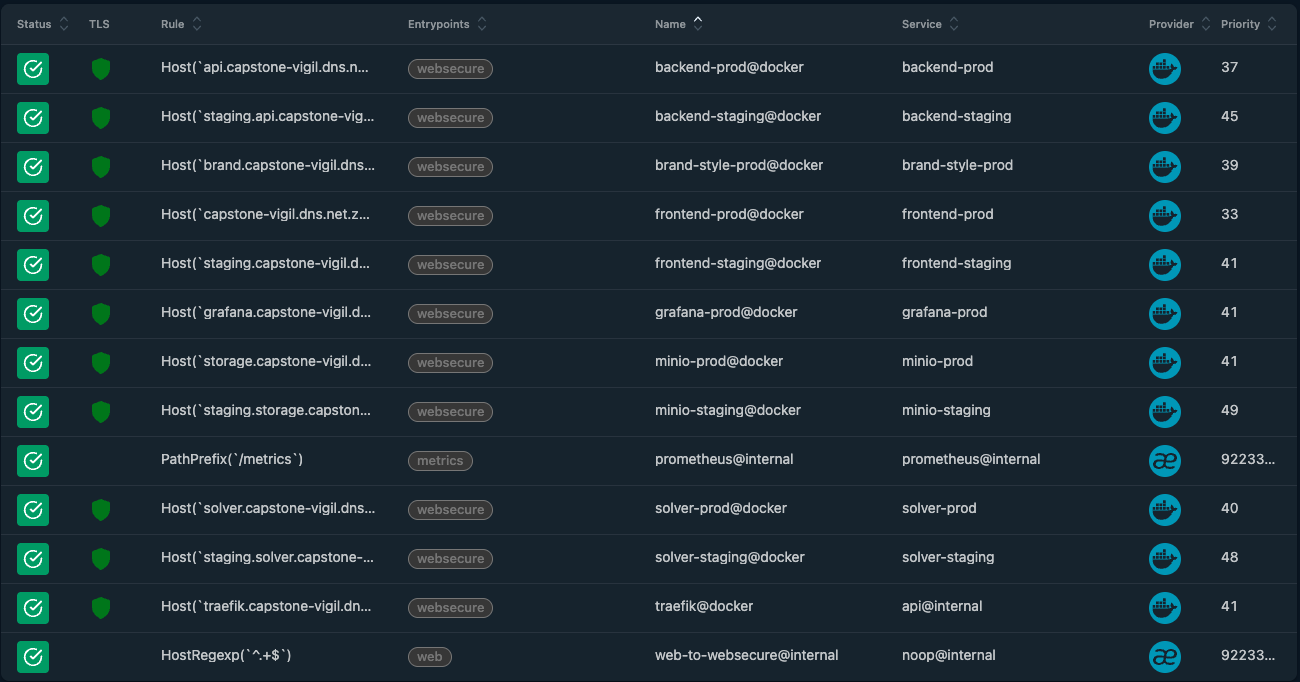
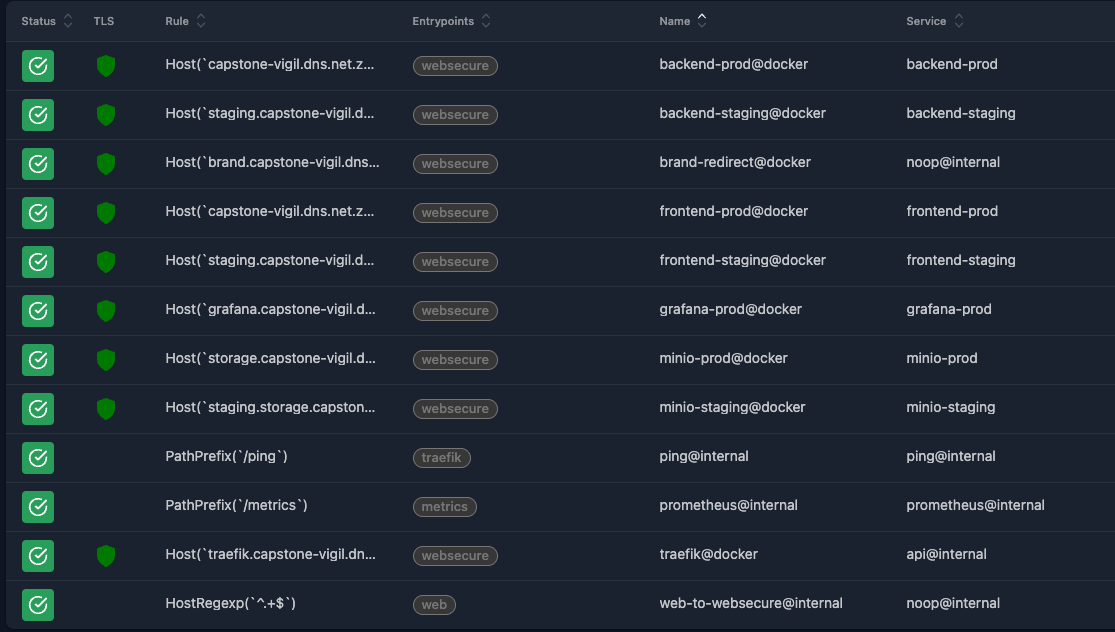
feat(devops): dock updates

diff --git a/docs/sas/deployment/EnvironmentParity.md b/docs/sas/deployment/EnvironmentParity.md
@@ -5,14 +5,14 @@
 Staging and Production share the same host infrastructure to optimise costs but are completely isolated via Docker networks. This co-location ensures the staging environment flawlessly mirrors the production environment's OS and architecture. If a feature works in staging, it is guaranteed to work in production. As mentioned previously the plan is to expand to a multi-server architecture post demo 2.
 
 !!! success "3 Distinct Environments"
-    Three distinct environments are defined. The `main` branch automatically deploys to the Staging environment via Watchtower, while Production requires a manual trigger via github actions.
+    Three distinct environments are defined. The `main` branch automatically deploys to the Staging environment via Github Actions, while Production requires a manual trigger via Github Actions.
 
 ## GitHub Environments
 
-To strictly control our CI/CD pipelines, approvals, and context, UMTAS maps the deployment pipeline to three distinct **GitHub Environments**:`Staging`, and `Production`. These environments act as gatekeepers for our deployment workflows.
+To strictly control our CI/CD pipelines, approvals, and context, UMTAS maps the deployment pipeline to two distinct **GitHub Environments**:`Staging`, and `Production`. These environments act as gatekeepers for our deployment workflows.
 
 
-* **Staging:** Tied directly to the `main` branch. Merges to `main` trigger GitHub Actions to build and push the `latest` Docker images, which are then autonomously picked up by Watchtower on the server.
+* **Staging:** Tied directly to the `main` branch. Merges to `main` trigger GitHub Actions to build and push the `latest` Docker images, which are then deployed via ssh on our server.
 * **Production:** Heavily protected to prevent accidental deployments. Deployments to this environment are triggered manually via GitHub Actions and require explicit approval. This guarantees that live user data is only ever touched during planned release windows.
 
 ### Github Environments
@@ -36,33 +36,33 @@ To strictly control our CI/CD pipelines, approvals, and context, UMTAS maps the 
     | **Frontend** | `http://localhost:port` | Local (e.g., 3000/3001) |
     | **API Backend** | `http://localhost:port` | Local (e.g., 8000) |
     | **Storage (MinIO)** | `http://localhost:9001` | 9001 |
-    | **Solver** | `http://localhost:8000` | 8000 |
+
 
 === "Staging"
 
     * **Hosting:** Cloud VPS
     * **Image Tagging:** `latest` (Continuous)
-    * **Network Isolation:** `umtas-staging-internal`
-    * **Deployment Flow:** Automated (Watchtower)
+    * **Network Isolation:** `umtas-staging`
+    * **Deployment Flow:** Automated (SSH)
 
     | Service | Subdomain / URL Structure | Target Port (via Traefik) |
     | :--- | :--- | :--- |
     | **Frontend** | `https://staging.capstone-vigil.dns.net.za` | 80/443 -> 3003 |
-    | **API Backend** | `https://staging.api.capstone-vigil.dns.net.za` | 80/443 -> 8008 |
+    | **API Backend** | `https://staging.capstone-vigil.dns.net.za/api` | 80/443 -> 8008 |
     | **Storage (MinIO)** | `https://staging.storage.capstone-vigil.dns.net.za` | 80/443 -> 9001 |
-    | **Solver** | `https://staging.solver.capstone-vigil.dns.net.za` | 80/443 -> 8000 |
+
 
 === "Production"
 
     * **Hosting:** Cloud VPS
     * **Image Tagging:** Pinned version (e.g., `v1.0.2`)
-    * **Network Isolation:** `umtas-prod-internal`
-    * **Deployment Flow:** Manual Trigger via Github actions(`just deploy-prod`)
+    * **Network Isolation:** `umtas-prod`
+    * **Deployment Flow:** Manual Trigger via Github actions(`just deploy-prod TAG`)
 
     | Service | Subdomain / URL Structure | Target Port (via Traefik) |
     | :--- | :--- | :--- |
     | **Frontend** | `https://capstone-vigil.dns.net.za` | 80/443 -> 3001 |
-    | **API Backend** | `https://api.capstone-vigil.dns.net.za` | 80/443 -> 8000 |
+    | **API Backend** | `https://capstone-vigil.dns.net.za/api` | 80/443 -> 8000 |
     | **Storage (MinIO)** | `https://storage.capstone-vigil.dns.net.za` | 80/443 -> 9001 |
     | **Solver** | `https://solver.capstone-vigil.dns.net.za` | 80/443 -> 8000 |
     | **Grafana** | `https://grafana.capstone-vigil.dns.net.za` | 80/443 -> 3000 |

diff --git a/docs/sas/deployment/LiveAccessibleSystem.md b/docs/sas/deployment/LiveAccessibleSystem.md
@@ -12,16 +12,15 @@ Distributing the system across subdomains routed by a single reverse proxy enabl
 | Environment | Service | Subdomain / URL Structure | Target Port (via Traefik) |
 | :--- | :--- | :--- | :--- |
 | **Production** | Frontend | `https://capstone-vigil.dns.net.za` | 80/443 -> 3001 |
-| **Production** | API Backend | `https://api.capstone-vigil.dns.net.za` | 80/443 -> 8000 |
+| **Production** | API Backend | `https://capstone-vigil.dns.net.za/api` | 80/443 -> 8000 |
 | **Production** | Storage (MinIO) | `https://storage.capstone-vigil.dns.net.za` | 80/443 -> 9001 |
-| **Production** | Solver | `https://solver.capstone-vigil.dns.net.za` | 80/443 -> 8000 |
 | **Production** | Grafana | `https://grafana.capstone-vigil.dns.net.za` | 80/443 -> 3000 |
 | **Production** | Brand Style | `https://brand.capstone-vigil.dns.net.za` | 80/443 -> 6767 |
 | **Infrastructure** | Traefik Dashboard | `https://traefik.capstone-vigil.dns.net.za` | 80/443 -> `api@internal` |
 | **Staging** | Frontend | `https://staging.capstone-vigil.dns.net.za` | 80/443 -> 3003 |
-| **Staging** | API Backend | `https://staging.api.capstone-vigil.dns.net.za` | 80/443 -> 8008 |
+| **Staging** | API Backend | `https://staging.capstone-vigil.dns.net.za/api` | 80/443 -> 8008 |
 | **Staging** | Storage (MinIO) | `https://staging.storage.capstone-vigil.dns.net.za` | 80/443 -> 9001 |
-| **Staging** | Solver | `https://staging.solver.capstone-vigil.dns.net.za` | 80/443 -> 8000 |
+
 
 ---
 

diff --git a/docs/sas/deployment/InfrastructureAsCode.md b/docs/sas/deployment/InfrastructureAsCode.md
@@ -14,4 +14,3 @@ Managing infrastructure as code through Docker Compose ensures strict reproducib
 | **Traefik v3.6** | Reverse Proxy & SSL Termination | Global Ingress(For now) |
 | **Docker Compose** | Declarative Orchestration | All Environments |
 | **Justfile** | Automation & Task Runner | CI/CD & Local Dev |
-| **Watchtower** | Automated Image Pulling & Restarts | Staging Only |
